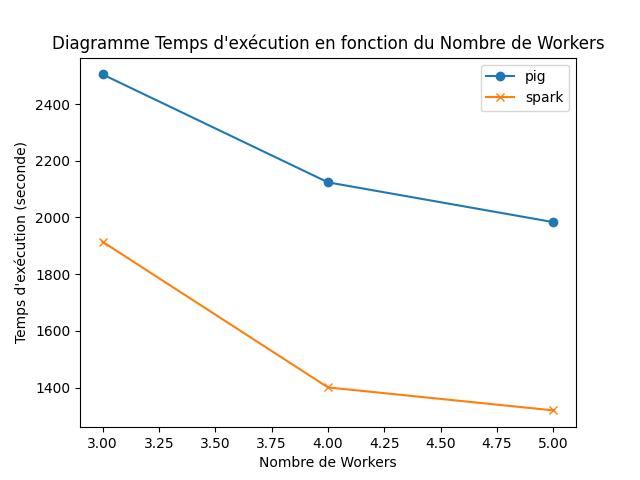
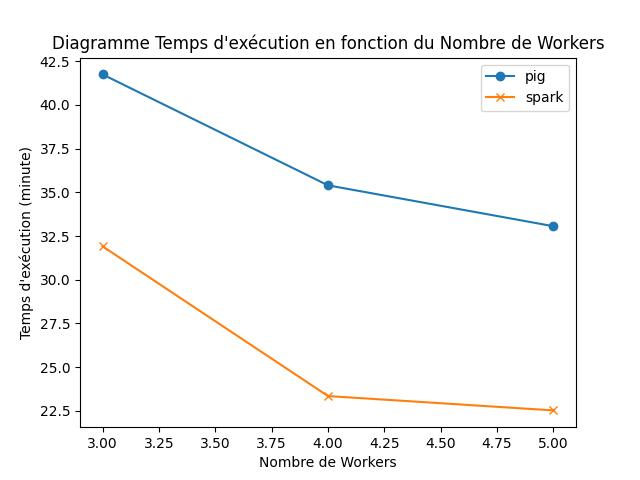
modif:diagramme.py diagramme.jpeg & readme

diff --git a/diagramme.py b/diagramme.py
@@ -7,17 +7,17 @@ with open ('./pig/time_results.txt', 'r') as fichier :
      for ligne in fichier:
           mots = ligne.split()
           nb_workers = int(mots[mots.index("workers)") - 1])
-          temps= float(mots[mots.index("seconds.") - 1])
+          temps= float((mots[mots.index("seconds.") - 1]))/60
           nombre_workers.append(nb_workers)
           temps_execution.append(temps)
 
 
-temps_execution2=[1914.6, 1401, 1320]
+temps_execution2=[31.91, 23.35, 22.53]
 
 plt.plot(nombre_workers, temps_execution, marker='o',label='pig')
 plt.plot(nombre_workers, temps_execution2, marker='x',label='spark')
 plt.xlabel('Nombre de Workers')
-plt.ylabel('Temps d\'exécution (seconde)')
+plt.ylabel('Temps d\'exécution (minute)')
 plt.title('Diagramme Temps d\'exécution en fonction du Nombre de Workers')
 plt.legend(loc='upper right')
 plt.savefig("diagramme.jpeg") 
